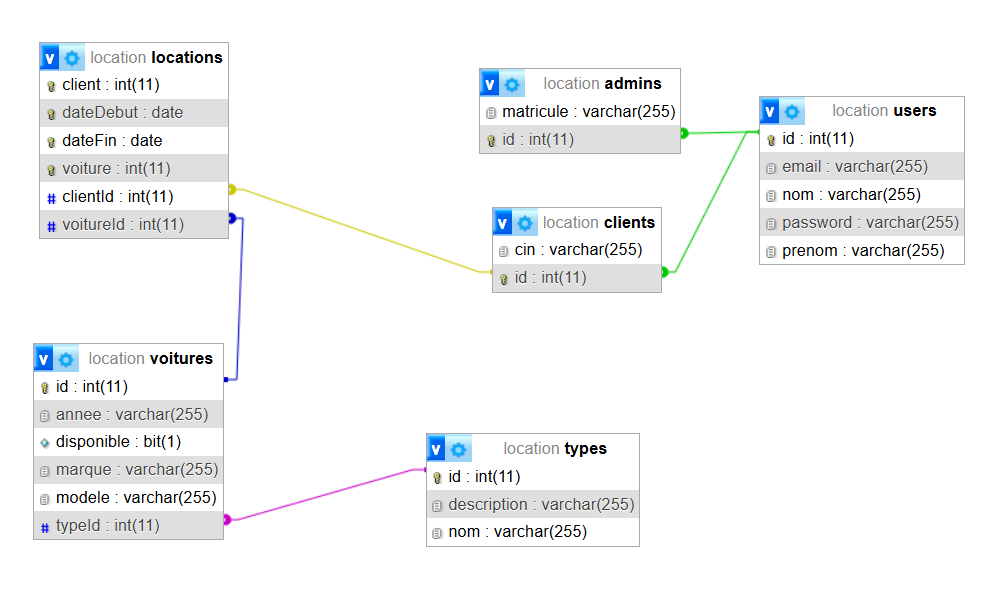
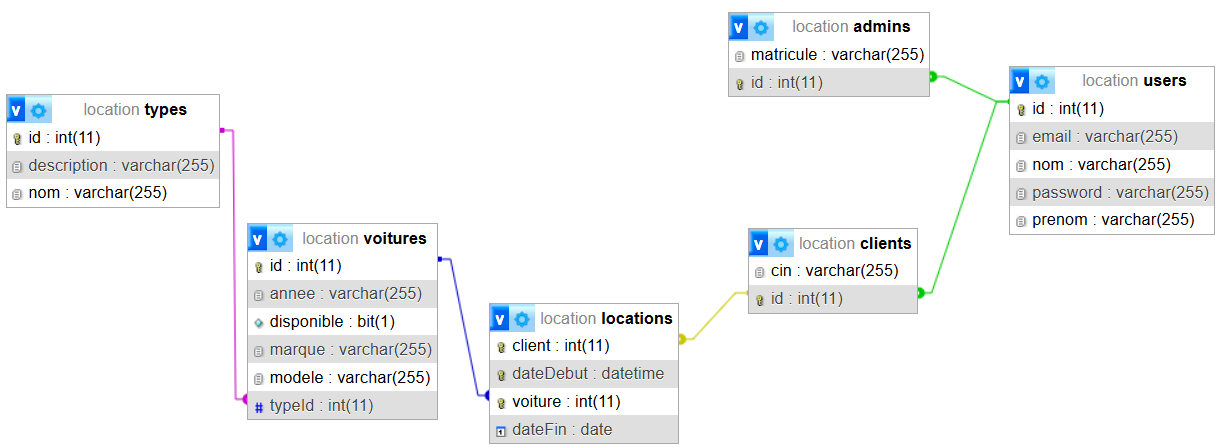
conceptionModifiée

diff --git a/src/java/entities/Voiture.java b/src/java/entities/Voiture.java
@@ -14,12 +14,17 @@ import javax.persistence.JoinColumn;
 import javax.persistence.ManyToOne;
 import javax.persistence.OneToMany;
 import javax.persistence.Table;
+import org.hibernate.annotations.NamedQueries;
+import org.hibernate.annotations.NamedQuery;
 
 /**
  *
  * @author hibaa
  */
 @Entity
+@NamedQueries({
+    @NamedQuery(name = "findByMarque", query = "from Voiture where marque.id =:id")
+})
 @Table(name = "voitures")
 public class Voiture {
 
@@ -38,12 +43,12 @@ public class Voiture {
     @JoinColumn(name = "typeId")
     private TypeVoiture typeVoiture;
 
-    public Voiture(String marque, String modele, String annee, boolean disponible,TypeVoiture tv) {
+    public Voiture(String marque, String modele, String annee, boolean disponible, TypeVoiture tv) {
         this.marque = marque;
         this.modele = modele;
         this.annee = annee;
         this.disponible = disponible;
-        this.typeVoiture=tv;
+        this.typeVoiture = tv;
     }
 
     public Voiture() {
@@ -104,6 +109,5 @@ public class Voiture {
     public void setLocations(List<Location> locations) {
         this.locations = locations;
     }
-    
-    
+
 }

diff --git a/src/java/dao/LocationDao.java b/src/java/dao/LocationDao.java
@@ -6,6 +6,12 @@
 package dao;
 
 import entities.Location;
+import java.util.Date;
+import java.util.List;
+import org.hibernate.HibernateException;
+import org.hibernate.Session;
+import org.hibernate.Transaction;
+import util.HibernateUtil;
 
 /**
  *
@@ -16,5 +22,25 @@ public class LocationDao extends AbstractDao<Location> {
     public LocationDao() {
         super(Location.class);
     }
-
+    
+    public List<Location> findBetweenDate(Date d1, Date d2) {
+        Session session = null;
+        Transaction tx = null;
+        List<Location> locations = null;
+        try {
+            session = HibernateUtil.getSessionFactory().openSession();
+            tx = session.beginTransaction();
+            locations = session.getNamedQuery("findBetweenDate").setParameter("d1", d1).setParameter("d2", d2).list();
+            tx.commit();
+        } catch (HibernateException e) {
+            if (tx != null) {
+                tx.rollback();
+            }
+        } finally {
+            if (session != null) {
+                session.close();
+            }
+        }
+        return locations;
+    }
 }

diff --git a/src/java/entities/LocationPK.java b/src/java/entities/LocationPK.java
@@ -19,23 +19,20 @@ import javax.persistence.TemporalType;
 @Embeddable
 public class LocationPK implements Serializable {
 
-    @Column(name = "clientId")
+    @Column(name = "client")
     private int client;
 
-    @Column(name = "voitureId")
+    @Column(name = "voiture")
     private int voiture;
 
     @Column(name = "dateDebut")
     private Date dateDebut;
 
-    @Column(name = "dateFin")
-    private Date dateFin;
     public LocationPK() {
     }
 
-    public LocationPK(Date dateDebut, Date dateFin, int client, int voiture) {
+    public LocationPK(Date dateDebut, int client, int voiture) {
         this.dateDebut = dateDebut;
-        this.dateFin = dateFin;
         this.client = client;
         this.voiture = voiture;
     }
@@ -46,14 +43,6 @@ public class LocationPK implements Serializable {
 
     public void setDateDebut(Date dateDebut) {
         this.dateDebut = dateDebut;
-    }
-
-    public Date getDateFin() {
-        return dateFin;
-    }
-
-    public void setDateFin(Date dateFin) {
-        this.dateFin = dateFin;
     }
 
     public int getClient() {

diff --git a/src/java/entities/Location.java b/src/java/entities/Location.java
@@ -14,12 +14,17 @@ import javax.persistence.JoinColumn;
 import javax.persistence.ManyToOne;
 import javax.persistence.Temporal;
 import javax.persistence.TemporalType;
+import org.hibernate.annotations.NamedQueries;
+import org.hibernate.annotations.NamedQuery;
 
 /**
  *
  * @author hibaa
  */
 @Entity
+@NamedQueries({
+    @NamedQuery(name = "findBetweenDate", query = "from Location where dateDebut between :d1 and :d2"),
+})
 @Table(name = "locations")
 public class Location {
 
@@ -35,11 +40,11 @@ public class Location {
     private Date dateFin;
 
     @ManyToOne
-    @JoinColumn(name = "clientId", referencedColumnName = "id", insertable = false, updatable = false)
+    @JoinColumn(name = "client", referencedColumnName = "id", insertable = false, updatable = false)
     private Client client;
 
     @ManyToOne
-    @JoinColumn(name = "voitureId", referencedColumnName = "id", insertable = false, updatable = false)
+    @JoinColumn(name = "voiture", referencedColumnName = "id", insertable = false, updatable = false)
     private Voiture voiture;
 
     public Location() {

diff --git a/src/java/dao/ClientDao.java b/src/java/dao/ClientDao.java
@@ -6,6 +6,12 @@
 package dao;
 
 import entities.Client;
+import entities.Voiture;
+import java.util.List;
+import org.hibernate.HibernateException;
+import org.hibernate.Session;
+import org.hibernate.Transaction;
+import util.HibernateUtil;
 
 /**
  *
@@ -17,4 +23,24 @@ public class ClientDao extends AbstractDao<Client> {
         super(Client.class);
     }
 
+    public List<Client> findClientsByMarqueVoiture(String marque) {
+        Session session = null;
+        Transaction tx = null;
+        List<Client> clients = null;
+        try {
+            session = HibernateUtil.getSessionFactory().openSession();
+            tx = session.beginTransaction();
+            clients = session.getNamedQuery("findClientsByMarqueVoiture").setParameter("marque", marque).list();
+            tx.commit();
+        } catch (HibernateException ex) {
+            if (tx != null) {
+                tx.rollback();
+            }
+        } finally {
+            if (session != null) {
+                session.close();
+            }
+        }
+        return clients;
+    }
 }

diff --git a/src/java/dao/VoitureDao.java b/src/java/dao/VoitureDao.java
@@ -6,6 +6,11 @@
 package dao;
 
 import entities.Voiture;
+import java.util.List;
+import org.hibernate.HibernateException;
+import org.hibernate.Session;
+import org.hibernate.Transaction;
+import util.HibernateUtil;
 
 /**
  *
@@ -15,6 +20,26 @@ public class VoitureDao extends AbstractDao<Voiture> {
 
     public VoitureDao() {
         super(Voiture.class);
+    }
+    public List<Voiture> findByMarque(int id) {
+        Session session = null;
+        Transaction tx = null;
+        List<Voiture> voitures = null;
+        try {
+            session = HibernateUtil.getSessionFactory().openSession();
+            tx = session.beginTransaction();
+            voitures = session.getNamedQuery("findByMarque").setParameter("id", id).list();
+            tx.commit();
+        } catch (HibernateException ex) {
+            if (tx != null) {
+                tx.rollback();
+            }
+        } finally {
+            if (session != null) {
+                session.close();
+            }
+        }
+        return voitures;
     }
 
 }

diff --git a/src/java/services/ClientService.java b/src/java/services/ClientService.java
@@ -1,0 +1,49 @@
+/*
+ * To change this license header, choose License Headers in Project Properties.
+ * To change this template file, choose Tools | Templates
+ * and open the template in the editor.
+ */
+package services;
+
+import dao.ClientDao;
+import entities.Client;
+import java.util.List;
+
+/**
+ *
+ * @author hibaa
+ */
+public class ClientService implements IService<Client> {
+
+    private final ClientDao fd;
+
+    public ClientService(ClientDao fd) {
+        this.fd = fd;
+    }
+
+    @Override
+    public boolean create(Client o) {
+        return fd.create(o);
+    }
+
+    @Override
+    public boolean delete(Client o) {
+        return fd.delete(o);
+    }
+
+    @Override
+    public boolean update(Client o) {
+        return fd.update(o);
+    }
+
+    @Override
+    public List<Client> findAll() {
+        return fd.findAll();
+    }
+
+    @Override
+    public Client findById(int id) {
+        return fd.findById(id);
+    }
+
+}

diff --git a/src/java/test/TestDate.java b/src/java/test/TestDate.java
@@ -1,0 +1,24 @@
+/*
+ * To change this license header, choose License Headers in Project Properties.
+ * To change this template file, choose Tools | Templates
+ * and open the template in the editor.
+ */
+package test;
+
+import dao.LocationDao;
+import entities.Location;
+import java.util.Date;
+
+/**
+ *
+ * @author hibaa
+ */
+public class TestDate {
+
+    public static void main(String[] args) {
+        LocationDao ld = new LocationDao();
+        for (Location l : ld.findBetweenDate(new Date("2025/04/01"), new Date("2025/04/31"))) {
+            System.out.println(l.getDateDebut() + ", " + l.getVoiture().getMarque() + " ," + l.getClient().getNom());
+        }
+    }
+}

diff --git a/src/java/entities/Client.java b/src/java/entities/Client.java
@@ -9,6 +9,7 @@ import java.util.List;
 import javax.persistence.Entity;
 import javax.persistence.OneToMany;
 import javax.persistence.Table;
+import org.hibernate.annotations.NamedNativeQuery;
 
 /**
  *
@@ -17,6 +18,7 @@ import javax.persistence.Table;
 @Entity
 @Table(name = "clients")
 
+@NamedNativeQuery(name = "findClientsByMarqueVoiture", query = "SELECT u.*, c.* FROM voitures v INNER JOIN locations l ON v.id = l.voiture INNER JOIN clients c ON c.id = l.client INNER JOIN users u ON u.id = c.id WHERE v.marque = :marque", resultClass = Client.class)
 public class Client extends User {
 
     private String cin;

diff --git a/src/java/test/Test.java b/src/java/test/Test.java
@@ -42,13 +42,11 @@ public class Test {
         voitureDao.create(voiture);
 
         Date dateDebut = new Date();
-        Date dateFin = new Date(dateDebut.getTime() + 3 * 24 * 60 * 60 * 1000);
-        LocationPK pk = new LocationPK(dateDebut, dateFin, client.getId(), voiture.getId());
+        LocationPK pk = new LocationPK(dateDebut, client.getId(), voiture.getId());
 
         Location location = new Location();
         location.setpK(pk);
         location.setDateDebut(dateDebut);
-        location.setDateFin(dateFin);
         location.setClient(client);
         location.setVoiture(voiture);
 

diff --git a/src/java/test/TestClients.java b/src/java/test/TestClients.java
@@ -1,0 +1,23 @@
+/*
+ * To change this license header, choose License Headers in Project Properties.
+ * To change this template file, choose Tools | Templates
+ * and open the template in the editor.
+ */
+package test;
+
+import dao.ClientDao;
+import entities.Client;
+
+/**
+ *
+ * @author hibaa
+ */
+public class TestClients {
+
+    public static void main(String[] args) {
+        ClientDao cd = new ClientDao();
+        for (Client c : cd.findClientsByMarqueVoiture("Bentley")) {
+            System.out.println(" - " + c.getNom() + " " + c.getPrenom() + "\n - " + c.getCin());
+        }
+    }
+}

diff --git a/src/java/test/TestMarque.java b/src/java/test/TestMarque.java
@@ -1,0 +1,23 @@
+/*
+ * To change this license header, choose License Headers in Project Properties.
+ * To change this template file, choose Tools | Templates
+ * and open the template in the editor.
+ */
+package test;
+
+import dao.VoitureDao;
+import entities.Voiture;
+
+/**
+ *
+ * @author hibaa
+ */
+public class TestMarque {
+
+    public static void main(String[] args) {
+        VoitureDao vd = new VoitureDao();
+        for (Voiture v : vd.findByMarque(1)) {
+            System.out.println(v.getMarque());
+        }
+    }
+}
